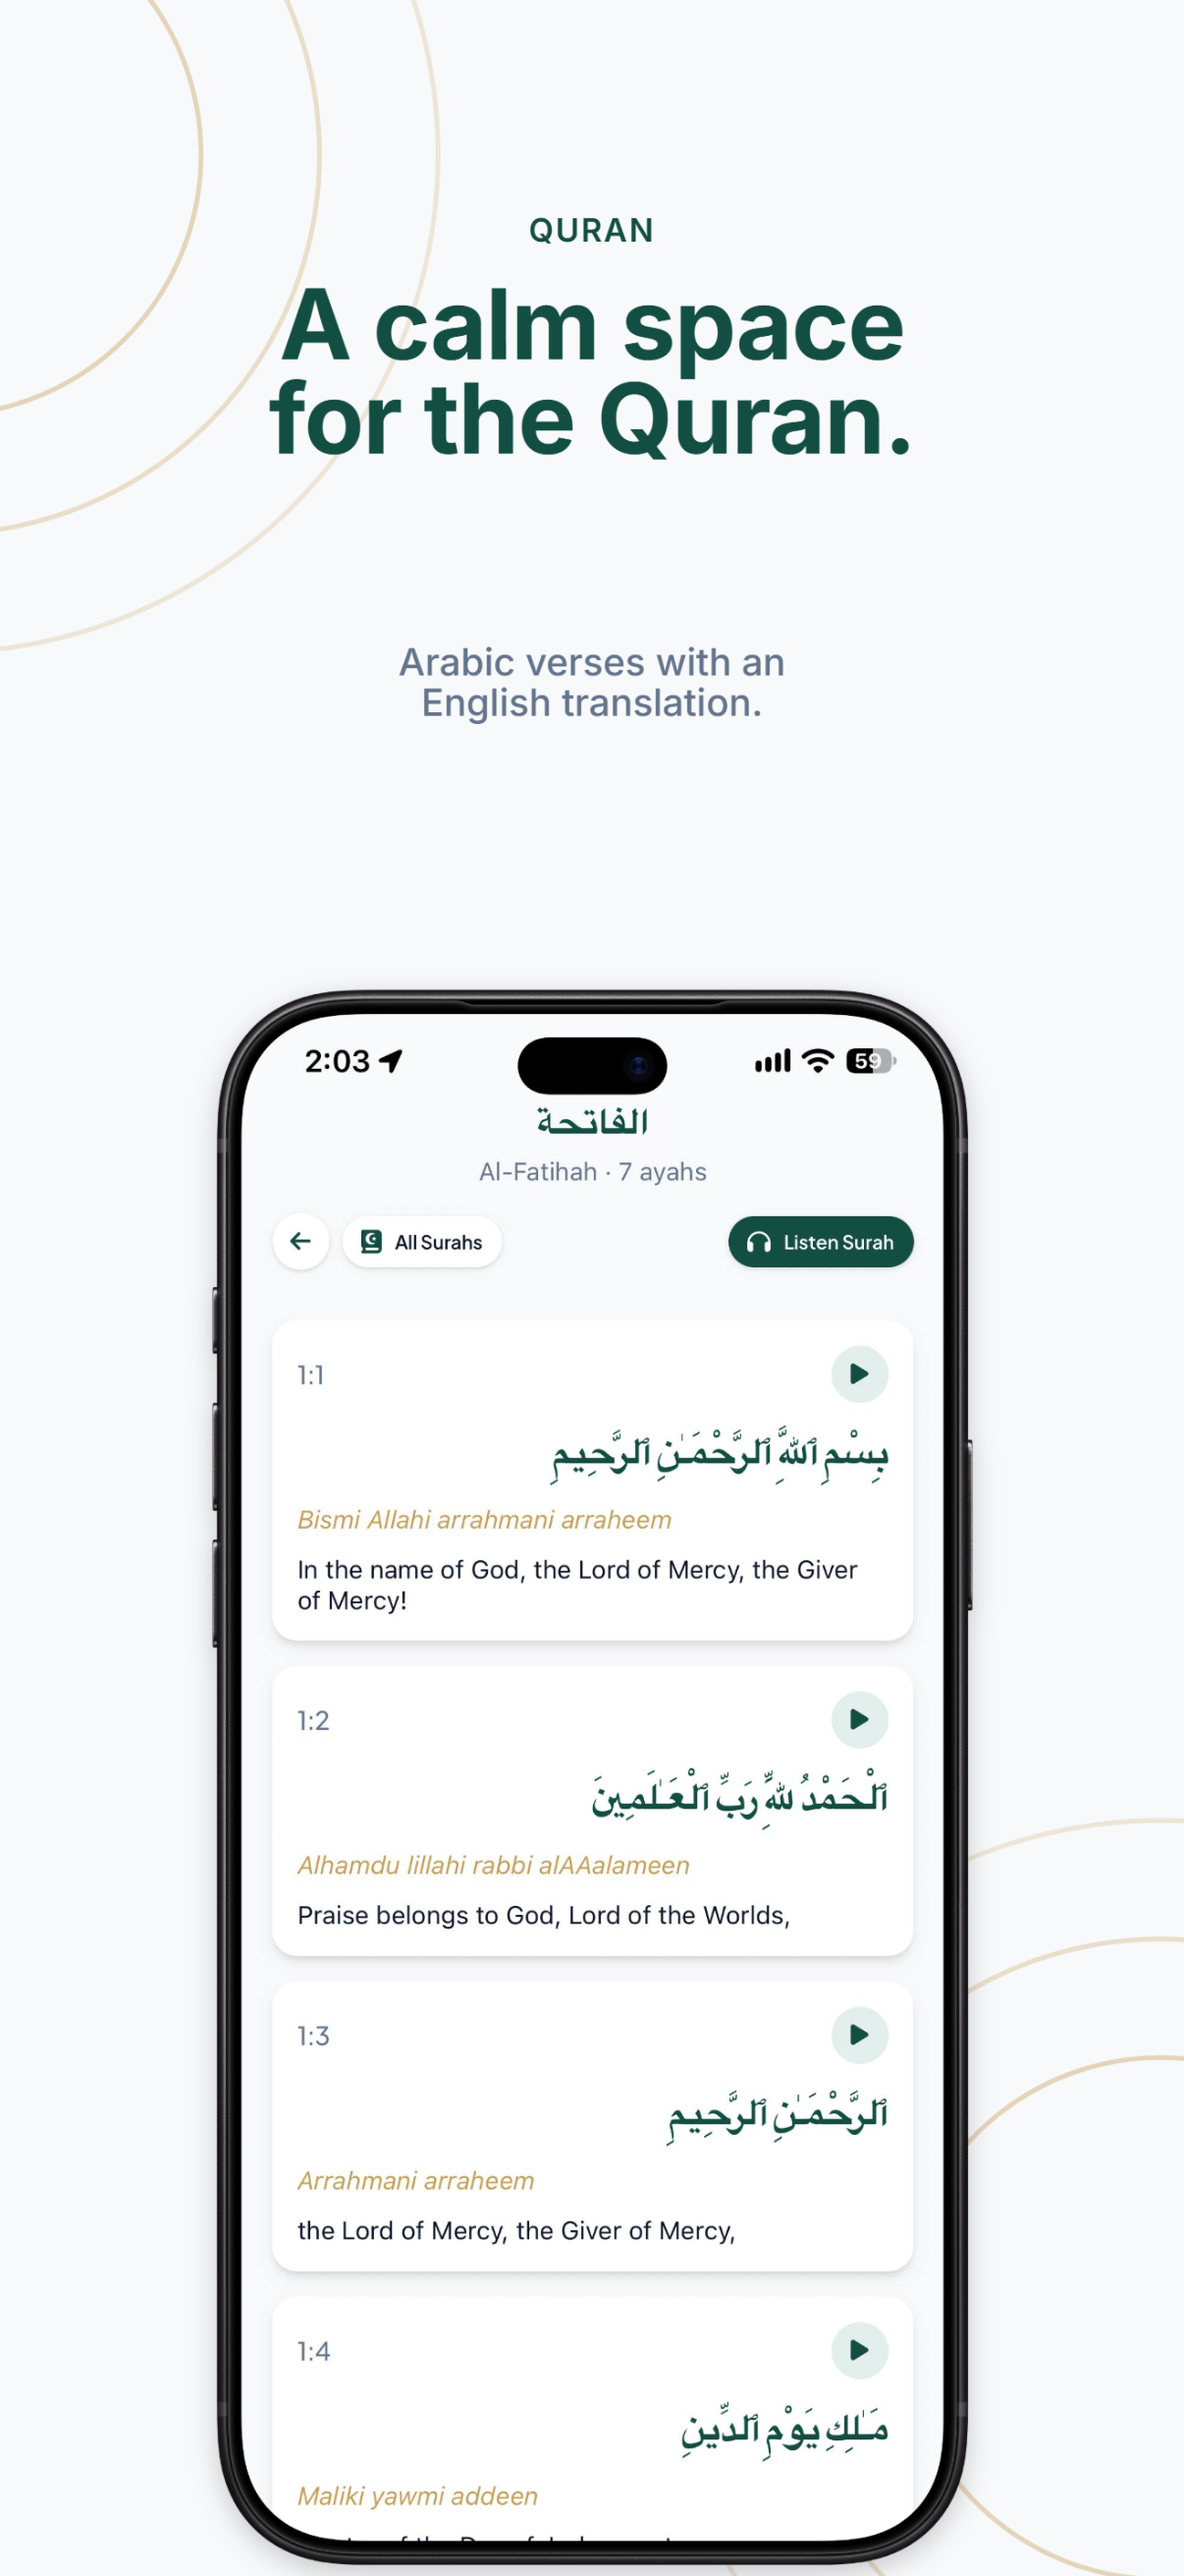
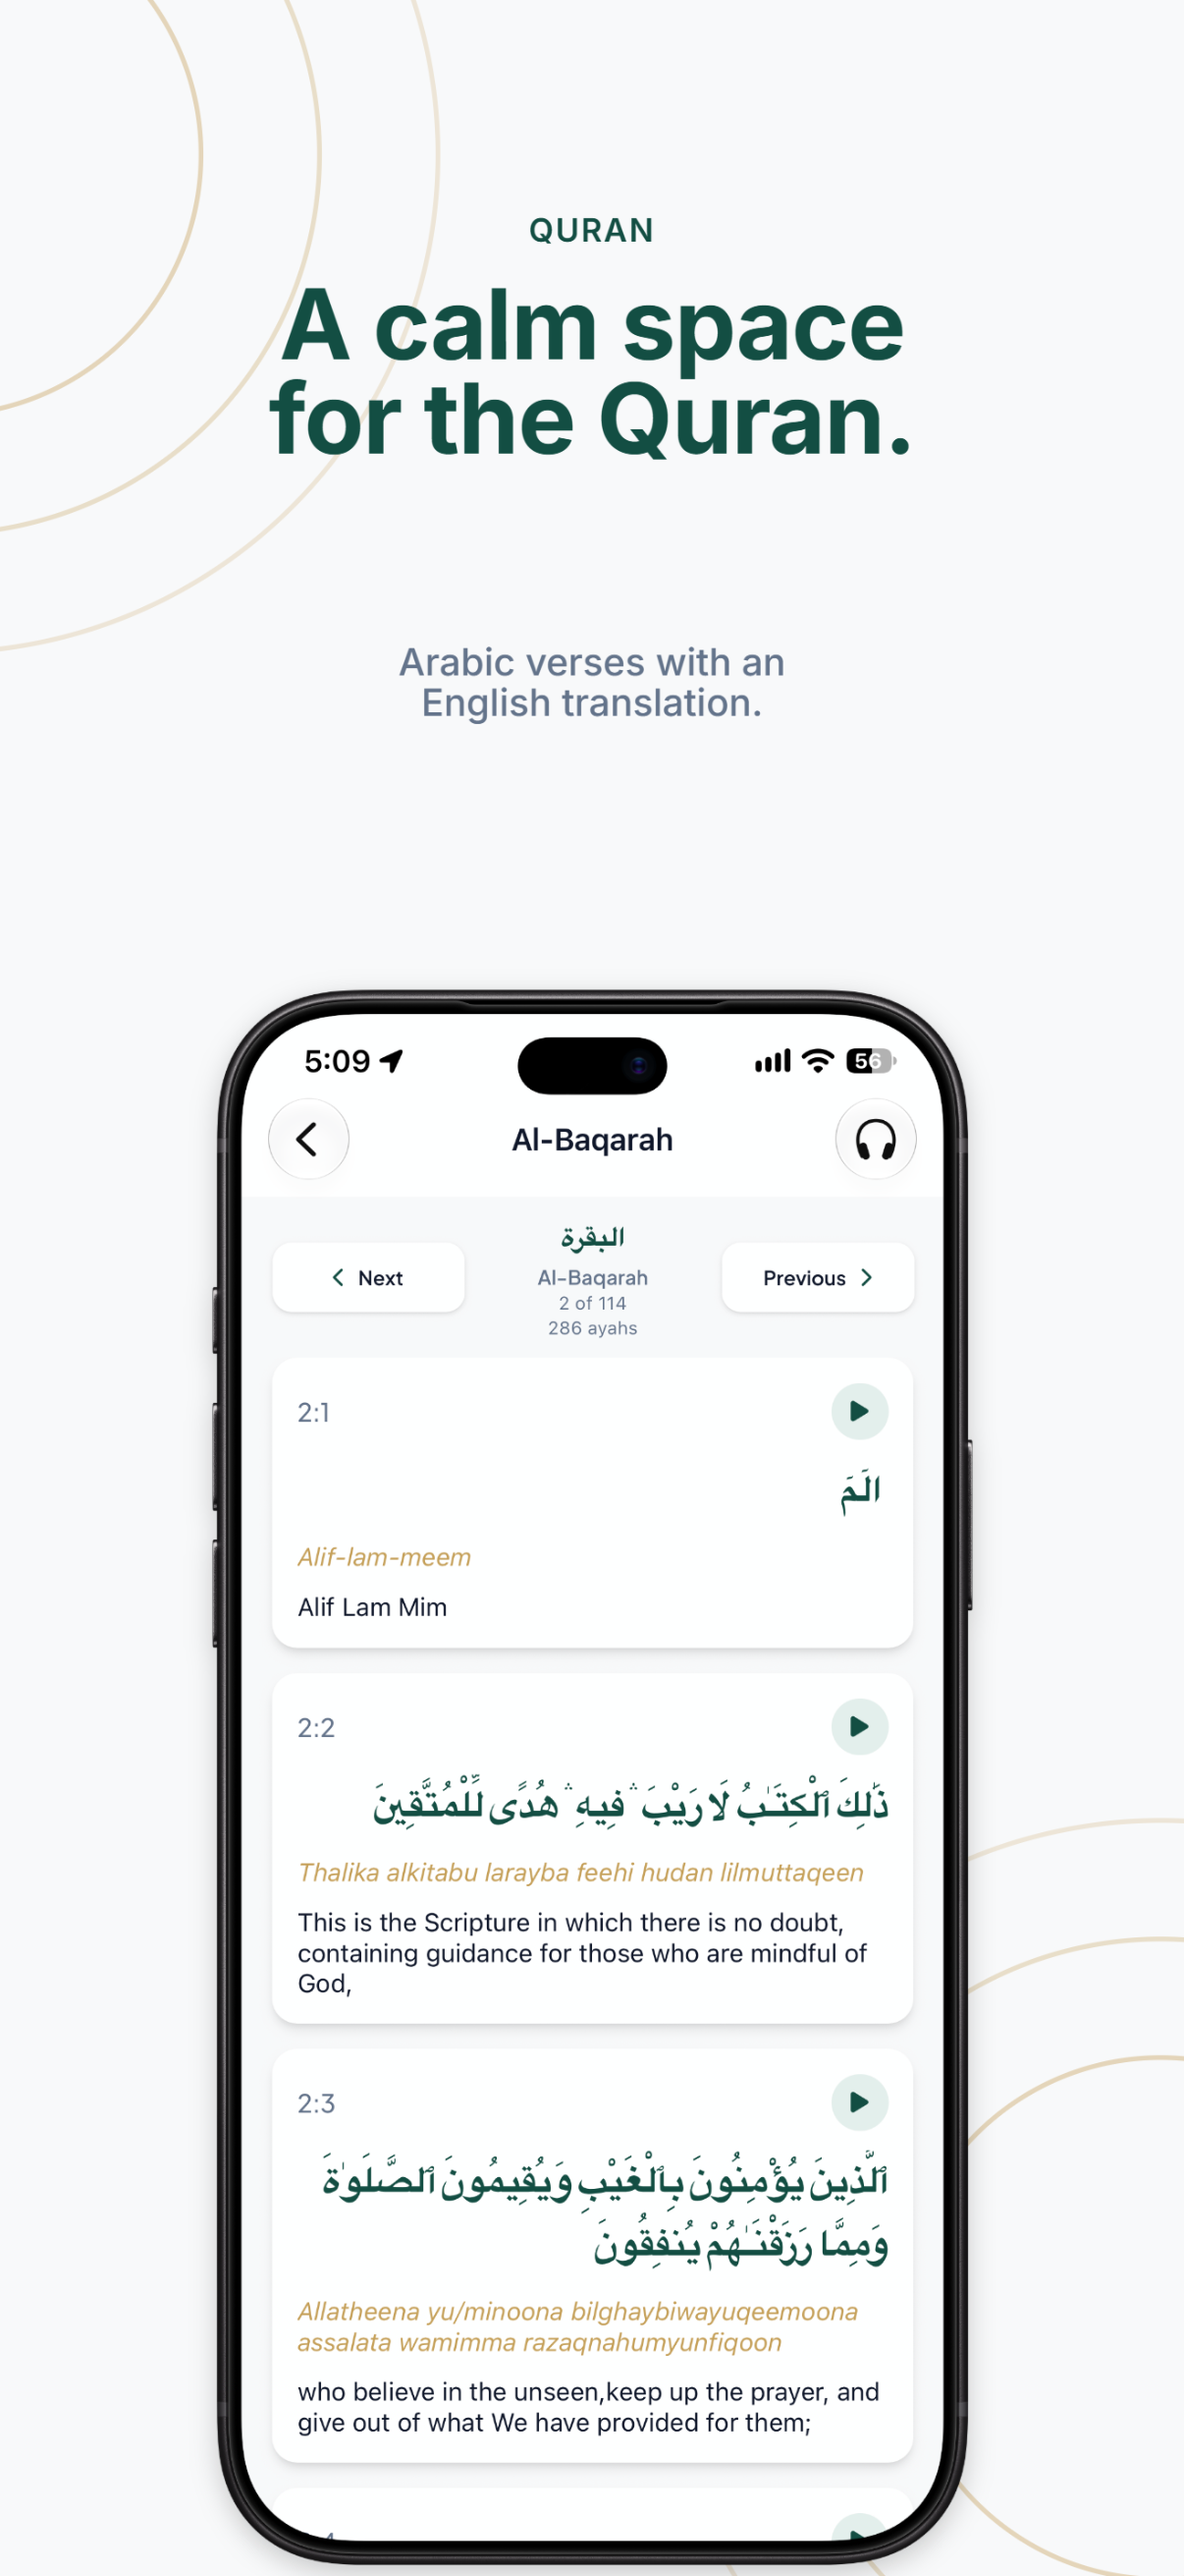
chore(mobile): update docs and screenshot for quran screen

diff --git a/README.md b/README.md
@@ -8,7 +8,7 @@ English and Russian app for iOS and Android.
 <p align="center">
   <img src="docs/screenshots/home.png" width="130" alt="Qalb home screen with the next prayer and daily schedule" />
   <img src="docs/screenshots/prayer-times.png" width="130" alt="Prayer times calendar and daily prayer list" />
-  <img src="docs/screenshots/quran.png" width="130" alt="Quran reading with Arabic, transliteration, and translation" />
+  <img src="docs/screenshots/quran.png" width="130" alt="Al-Baqarah Quran reader with Arabic verses, transliteration, English translation, and verse playback" />
   <img src="docs/screenshots/qibla.png" width="130" alt="Qibla compass" />
   <img src="docs/screenshots/mosques.png" width="130" alt="Nearby mosques map and list" />
   <img src="docs/screenshots/tasbih.png" width="130" alt="Tasbih counter" />
